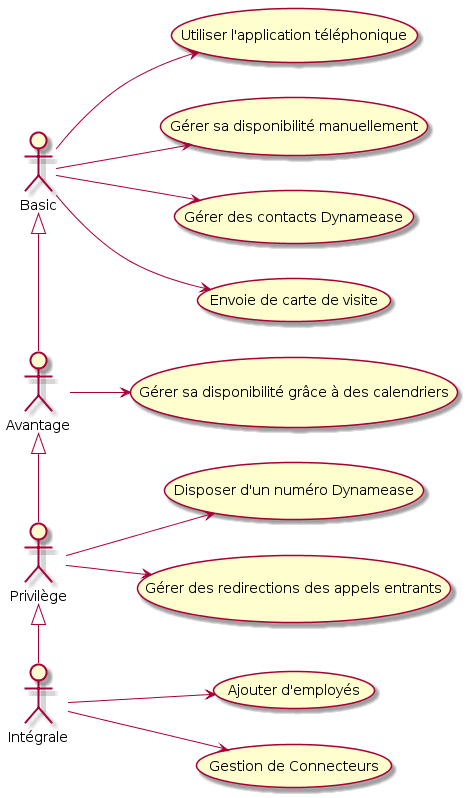
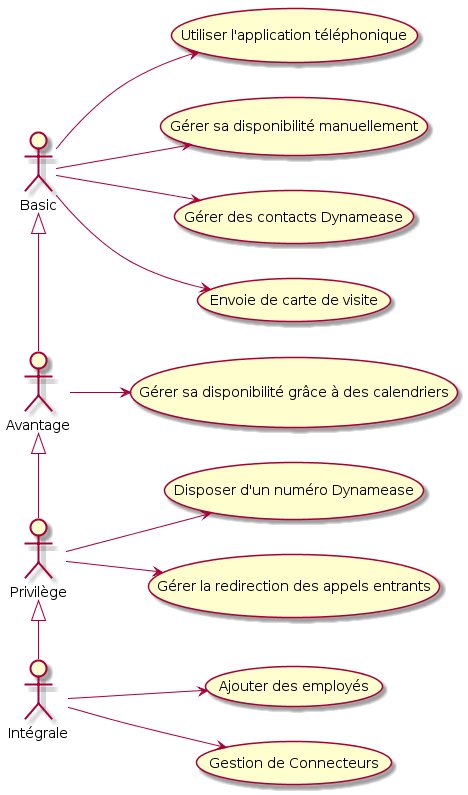
fix

diff --git a/src/Securite.tex b/src/Securite.tex
@@ -1,16 +1,16 @@
 Pour cette partie, je n'avais pas de cahier des charges à proprement parler. J'étais beaucoup plus libre dans mes choix. Il fallait que je m'organise dans le but de faire des tests sur la sécurité des communications de Dynamease. 
 
-Le résultat à obtenir était la liste des éventuelles failles de sécurité et de proposer des moyens pour les résoudre. Dans le but de déceler ces éventuelles failles j'ai suivi les étapes suivantes :
+Le résultat à obtenir était la liste des éventuelles failles de sécurité et une liste de propositions pour leur résolution. Dans le but de déceler ces éventuelles failles j'ai suivi les étapes suivantes :
 
 \begin{enumerate}
 	\item Lecture du code source de l'application;
 	\item Lister les éventuelles failles critiques qui pourraient être présentes;
-	\item Effectuer les manipulations afin de tester les failles;
+	\item Effectuer les manipulations afin de mettre en avant ces failles;
 	\item Détecter les sources de ces failles;
 	\item Déterminer les solutions à ces problèmes.
 \end{enumerate} 
 
-En plus de trouver et résoudre ces différentes failles, je me dois également de mettre en place le protocole Https pour les sites internet de Dynamease. Cette mise en place devra être effectuée par un jeune décrocheur, je serais en charge de jouer le rôle de tuteur, en lui indiquant ce qu'il doit faire, tout en lui apprenant les différentes méthodes pour atteindre au mieux l'objectif.
+En plus de trouver et résoudre ces différentes failles, je me dois également de mettre en place le protocole Https pour les sites internet de Dynamease. Cette mise en place sera effectuée par un jeune décrocheur. Je serais en charge de jouer le rôle de tuteur, en lui indiquant ce qu'il doit faire, tout en lui apprenant les différentes méthodes pour atteindre au mieux l'objectif.
 
 \section{Vérification de sécurité des services Dynamease}
 
@@ -20,17 +20,17 @@ Dans cette partie j'expliquerais, pour toutes les failles de sécurité que j'ai
 
 En utilisant l'outil SoapUI, j'ai pu remarquer que les arguments des requêtes n'étaient pas tous cryptés. De plus ceux qui étaient cryptés, ressemblaient étrangement aux clefs d'activation fournies par Dynamease.
 
-En effet les clefs d'activation étaient cryptés avec le même procédé de cryptage que celui utilisé par les arguments des requêtes. De plus la même clef de cryptage est utilisée pour les deux cryptages. Ceci peut poser quelques problèmes.
+En effet les clefs d'activation étaient cryptés avec le même procédé de cryptage que celui utilisé par les arguments des requêtes. De plus la même clef de cryptage est utilisée pour ces deux cryptages. Ceci peut poser quelques problèmes.
 
-En effet, des outils tels que Wireshark permettent de récupérer les paquets, par lesquels transitent les requêtes, envoyées par l'application téléphonique afin d'obtenir les méthodes et les arguments utilisés par chacune.
+En effet, des outils tels que Wireshark permettent de récupérer les paquets, par lesquels transitent les requêtes, envoyées par l'application téléphonique afin d'obtenir les méthodes et leurs arguments ainsi que leur contenu.
 
 En remplaçant les arguments nécessitant une chaîne cryptée par une clef d'activation quelconque, on se rend compte que pour certaines requêtes les résultats renvoyés sont corrects. Aucune vérification n'est donc effectuée sur les arguments reçus.\\
 
-Pour régler ces problèmes il faut commencer par mettre en place un protocole https. Pour que les requêtes envoyées ne puissent plus être lues par une personne observant les paquets transitant au travers du réseau. De plus le cryptage des données devrait être différent que celui utilisé par l'encodage des clefs d'activation, ou du moins la phrase permettant ce cryptage.
+Pour régler ces problèmes il faut commencer par mettre en place un protocole https. Pour que les requêtes envoyées ne puissent plus être lues par une personne observant les paquets transitant au travers du réseau. De plus le cryptage des données devrait être différent que celui utilisé par l'encodage des clefs d'activation, ou du moins la phrase permettant ce cryptage devrait être différente.
 
 Une vérification devra également être mise en place sur les arguments envoyés.
 
-De plus une nouvelle vérification devrait être mise en place afin de pouvoir vérifier l'identité de l'utilisateur Dynamease envoyant cette requête. Cette vérification pourrait être mise en place à l'aide d'un identifiant encodé unique pour chaque utilisateur. Une vérification devra être mise en place en début de chaque requête pour une meilleure sécurité des requêtes.
+De plus une nouvelle vérification pourrait être mise en place afin de vérifier l'identité de l'utilisateur Dynamease. Cette vérification pourrait être mise en place à l'aide d'un identifiant encodé, unique pour chaque utilisateur. Une vérification devra être mise en place en début de chaque requête, pour une meilleure sécurité.
 
 \subsection{Cookies non sécurisés}
 
@@ -40,16 +40,16 @@ La question qui se posait alors, était quelle est la chose qui déterminait qu'
 
 Après une observation des cookies, il est apparu que les informations contenues dans les cookies étaient écrites en claires. L'information qui nous intéresse est l'identifiant Dynamease. Cet identifiant étant unique c'est grâce à celui-ci que l'utilisateur peut être identifié.
 
-Cette information étant en claire il suffit donc de la modifier avec un autre identifiant afin d'usurper le compte d'un autre utilisateur.
-\\\\
+Cette information étant en claire il suffit donc de la modifier avec un autre identifiant, afin d'usurper le compte d'un autre utilisateur.
+\\
 
-Afin de régler cette faille il suffit d'encoder les informations contenues dans les cookies. De plus d'autres informations devraient être contenues dans les cookies afin d'être certain que l'Id utilisé représente bien l'utilisateur actuel.
+Afin de régler cette faille il suffit d'encoder les informations contenues dans les cookies. De plus d'autres informations devraient être contenues dans les cookies afin d'être certain que l'identifiant utilisé représente bien l'utilisateur actuel. On pourrait reprendre le même procédé que présenté dans la partie précédente.
 
 \subsection{Sauvegarde des données}
 
 Les données sont actuellement stockées sur une seule base de données. En cas de panne du serveur accueillant la base de données, les services Dynamease seraient hors fonction. De plus il n'est pas à exclure que les données stockées sur le serveur puissent être définitivement perdues.
 
-Pour une plus grande sécurité sur la sauvegarde des données, il faudrait mettre en place une procédure pour que les données soient stockées sur deux bases de données se trouvant sur deux serveurs différents. Le plus judicieux serait d'avoir deux bases de données en \textit{master} afin que la copie se fasse en simultanée sur les deux bases de données, et d'avoir une base de données \textit{slave} qui copierait les données des bases de données master à intervalles de temps réguliers, afin d'y effectuer des tests, récupération manuelle de données etc.
+Pour une plus grande sécurité sur la sauvegarde des données, il faudrait mettre en place une procédure pour que les données soient stockées sur deux bases de données se trouvant sur deux serveurs différents. Le plus judicieux serait d'avoir deux bases de données en \textit{master} afin que la copie se fasse en simultanée sur les deux bases de données, et d'avoir une base de données \textit{slave} qui copierait les données des bases de données \textit{master} à intervalles de temps réguliers, afin d'y effectuer des tests, récupération manuelle de données etc.
 
 \subsection{Conclusion}
 
@@ -59,7 +59,7 @@ Pour l'instant mon travail s'est concentré sur le fait de lister les différent
 
 Les communications vers le site web de Dynamease s'effectuaient par le biais du protocole HTTP. Ce protocole n'est pas sécurisé et ne protège pas les données des clients Dynamease. Il a été décidé de mettre en place le protocole HTTPS, qui chiffre les communications avec les clients.
 
-Le protocole HTTPS, fonctionne sur le principe de clef publique clef privée. Une clef publique est envoyée à chacun des clients pour chiffrer les données que celui-ci envoi. Ces données ne peuvent être alors décryptées uniquement par la clef privée qui reste sur le serveur.
+Le protocole HTTPS, fonctionne sur le principe de clef publique, clef privée. Une clef publique est envoyée à chacun des clients pour chiffrer les données envoyées. Ces données ne peuvent être alors décryptées que par la clef privée qui reste sur le serveur.
 
 Cette mise en place sera réalisée par un jeune décrocheur que je devrais superviser. J'aurais pour charge de lui indiquer ce qu'il doit faire, et le mettre sur la voie pour qu'il devienne autonome dans son travail.
 
@@ -83,7 +83,7 @@ Pour réaliser cette mise en place j'ai décidé de faire passer ce jeune décro
 	\item Mise en place d'une clef certifiée Gandi.
 \end{enumerate}
 
-Pour la première étape, je lui fournirais toutes les documentations officielles nécessaires à la réalisation de cette première étape. Et au fur et à mesure de la formation je diminuerais le nombre de documentations fournies pour l'obliger à aller rechercher l'information utile.
+Pour la première étape, je lui fournirais toutes les documentations officielles nécessaires à la réalisation de celle-ci. Et au fur et à mesure de la formation je diminuerais le nombre de documentations fournies pour l'obliger à aller rechercher l'information utile.
 
 Les tests qui seront effectués par le décrocheur se dérouleront sur un serveur à part afin de pouvoir assurer un fonctionnement normal du reste des infrastructures en cas d'erreur.\\\\
 

diff --git a/src/Entreprise.tex b/src/Entreprise.tex
@@ -17,13 +17,11 @@ Employé de Dynamease en charge de l’architecture du service Dynamease et du s
 
 \subsection{Les objectifs}
 
-Dynamease se base sur le fait que le portable est un appareil téléphonique qui devient plus utilisé que les téléphones fixes. Le portable devient, grâce à Dynamease, un standard automatisé. Tous les appels entrant sont filtrés en amont afin de déterminer leur importance et leur provenance. Il est possible pour un utilisateur Dynamease de configurer les services Dynamease afin de déterminer des horaires d'appel pour différents types de contact (Professionnel, Familial, ami).
+Dynamease se base sur le fait que le portable est un appareil téléphonique qui devient plus utilisé que les téléphones fixes. Le portable devient, grâce à Dynamease, un standard automatisé. Tous les appels entrant sont filtrés en amont afin de déterminer leur importance et leur provenance. Il est possible pour un utilisateur Dynamease de configurer les services Dynamease afin de déterminer des horaires d'appel pour différents types de contact (Professionnel, Familial, ami). Une fois les appels filtrés, ils sont redirigés vers l'appareil téléphonique de l'utilisateur.
 
-Une fois les appels filtrés et qu'ils peuvent être acceptés par l'utilisateur, ils sont redirigés vers l'appareil téléphonique de l'utilisateur.
+Lors du filtrage, des informations sont récupérées sur les appels entrants. Ces informations sont récupérées sur les bases de données privées du client ainsi que sur des bases de données publiques (Annuaire inverse, réseaux sociaux ...). Les appels redirigés sont alors accompagnés par ces informations. Les informations pertinentes, sur l'appel, sont affichées sur l'appareil téléphonique de l'utilisateur.\\
 
-Lors de ce filtrage des informations sont récupérées sur les appels. Ces informations sont récupérées sur les bases de données privées du client ainsi que sur des bases de données publiques (Annuaire inverse, réseaux sociaux ...). Les appels redirigés sont alors accompagnés par les informations. Les informations pertinentes, sur l'appel, seront affichées sur l'appareil téléphonique de l'utilisateur.\\
-
-Ce service permet aux utilisateurs de déléguer la partie standardisation de son entreprise et d'éviter de rater des appels importants tout en ignorant les appels considérés comme nuisibles. De plus Dynamease propose aux entreprises de diminuer leurs coûts de téléphonie en remplaçant les appareils fixes de l'entreprise par les téléphones portables de leurs employés. Les employés pourront ainsi avoir un seul appareil téléphonique pour leur appel, et configurer leurs horaires d'appel en fonction de leurs horaires de travail.\\
+Ce service permet aux utilisateurs de déléguer la partie standardisation de leur entreprise et d'éviter de rater des appels importants tout en ignorant les appels pouvant être considérés comme nuisibles. De plus Dynamease propose aux entreprises de diminuer leurs coûts de téléphonie en remplaçant les appareils fixes de l'entreprise par les téléphones portables de leurs employés. Les employés pourront ainsi avoir un seul appareil téléphonique pour leurs appels, et configurer leurs horaires d'appel professionnel en fonction de leurs horaires de travail.\\
 
 L'entreprise Dynamease est également soucieuse des adolescents sortis du système scolaire. Dynamease veut proposer une aide à ses "décrocheurs" en les formant sur le métier de l'informatique, en leur faisant réaliser, sur une période courte, des petits projets. L'initiative, "de décrocheur à développeur" verra le jour durant mon stage.
 
@@ -32,18 +30,19 @@ L'entreprise Dynamease est également soucieuse des adolescents sortis du systè
 Dynamease propose à ses clients plusieurs offres. Chaque offre contient des fonctionnalités particulières ainsi que les fonctionnalités des offres précédentes dans la hiérarchie.  La hiérarchie des offres ainsi que les fonctionnalités attribuées à chacune de ces offres est indiquée dans le diagramme suivant:
 
 \begin{figure}[!h]
+	\centering
 	\includegraphics[scale=0.5]{img/useCase.png}
-	\caption{\label{useCase} Diagramme de cas d'utilisation Dynamease}
+	\caption{\label{useCase} Diagramme des cas d'utilisation Dynamease}
 \end{figure}
 
-Nous allons maintenant décrire les différentes offres.
+Nous allons maintenant décrire ces différentes offres.
 
 \subsubsection{Basic}
 
 L'offre \textit{Basic} est une offre gratuite, permettant à l'utilisateur d'accéder aux fonctions basiques de l'application téléphonique et de l'application web:
 
 \begin{itemize}
-	\item Envoi de carte de visite Dynamease;
+	\item Envoi de cartes de visite Dynamease;
 	\item Gestion de la liste de contact;
 	\item Gestion manuelle de la disponibilité.
 \end{itemize}
@@ -60,7 +59,7 @@ L'offre Privilège permet aux utilisateurs d'acquérir un numéro Dynamease. Ce 
 
 L'offre Intégrale est destinée aux entreprises. Cette offre permet l'ajout d'employés qui auront les mêmes fonctionnalités qu'un client  Avantage.
 
-Il est également possible d'ajouter des connecteurs. Les connecteurs permettent une meilleure identification d'appel ainsi qu'une meilleure redirection. Les connecteurs sont des bases de données fournies par les entreprises qui permettent des appelants ainsi que la redirection vers l'employé responsable de l'appelant. Les connecteurs sont utilisés pour fournir des informations sur l'appelant et également pour leur redirection.
+Il est également possible d'ajouter des connecteurs. Les connecteurs permettent une meilleure identification d'appel ainsi qu'une meilleure redirection. Les connecteurs sont des bases de données fournies par les entreprises qui permettent d'identifier un appelant ainsi que la redirection vers l'employé responsable de celui-ci. Les connecteurs sont utilisés pour fournir des informations sur l'appelant et également pour leur redirection.
 
 \section{Présentation de l'environnement Dynamease}
 
@@ -82,15 +81,15 @@ Les services Dynamease sont accessibles via les interfaces de requêtes représe
 
 Passons maintenant à la partie Contrôleur. Cette partie peut être divisée en deux composants.
 
-Le premier de ces composants est le RequestHandler, qui s'occupe du traitement des appels. RequestHandler dispose de trois parties. La première partie est le \textit{Retriever}, qui représente la recherche du contact lors d'un appel. Le \textit{Cathegorizer} réunie toutes les classes aidant à la classification de l'appelant. Et enfin le \textit{matcher}, construit les informations relatives à l'appelant afin de les fournir à la personne recevant l'appel.
+Le premier de ces composants est le RequestHandler, qui s'occupe du traitement des appels. RequestHandler dispose de trois parties. La première partie est le \textit{Retriever}, qui représente la recherche du contact lors d'un appel. Le \textit{Categorizer} réunie toutes les classes aidant à la classification de l'appelant. Et enfin le \textit{Matcher}, a pour rôle de mettre en relation l'appelant avec la meilleure personne à contacter, par le biais du meilleur appareil téléphonique à utiliser pour cette personne.
 
-La seconde partie Contrôleur, réunis toutes les méthodes relatives aux clients, création, suppression, modification et lecture des informations. Les deux classes utilisées dans cette partie sont le CorpSubOp pour les entreprises, donc du type Intégral. Les autres clients sont gérés par la classe DynSubOp..\\
+La seconde partie du Contrôleur réunit toutes les méthodes relatives aux clients, création, suppression, modification et lecture des informations. Les deux classes utilisées dans cette partie sont le CorpSubOperations pour les entreprises, donc du type Intégral. Les autres clients sont gérés par la classe DynSubOperations\\
 
 La partie Modèle de Dynamease est représentée par les parties Core et Kernel. Core représente les classes métier utilisées uniquement par le serveur Dynamease. Quant à la partie Kernel elle réunit toutes les classes pouvant être utilisées par chacune des applications de Dynamease.\\
 
-Le stockage est géré par deux bases de données MySQLet Ldap. La base de données Ldap est utilisée pour stocker les informations sur les contacts des utilisateurs. La base MySQL stocke toutes les autres informations utiles.
+Le stockage est géré par deux bases de données MySQL et Ldap. La base de données Ldap est utilisée pour stocker les informations sur les contacts des utilisateurs. La base MySQL stocke toutes les autres informations utiles.
 
-La raison de la présence de deux bases de données est dû au fait de répondre à un besoin des futurs clients ayant déjà un annuaire Ldap, afin de faciliter l'importation de ces contacts.\\
+La raison de la présence de deux bases de données est dû au fait de répondre à un besoin des futurs clients ayant déjà un annuaire Ldap, afin de faciliter l'importation de leurs contacts.\\
 
 En plus du serveur Dynamease, l'entreprise dispose aussi d'un serveur Asterisk. C'est un serveur gérant les communications téléphoniques. Ce serveur communique avec le serveur Dynamease afin de gérer les redirections et avoir les numéros entrant.\\
 

diff --git a/src/Apprentissage.tex b/src/Apprentissage.tex
@@ -1,6 +1,6 @@
 \section{Introduction}
 
-La réalisation des applications téléphoniques nécessite différentes technologies et d'outils. Les applications Iphone et Android nécessitant des outils différents, une partie non négligeable de mon travail a été de me former sur ceux-ci.
+La réalisation des applications téléphoniques nécessite différentes technologies et outils. Les applications Iphone et Android nécessitant des outils différents, une partie non négligeable de mon travail a été de me former sur ceux-ci.
 
 Malgré la différence de ces deux systèmes d'exploitation, il existe quelques ressemblances, en particulier sur leur utilisation du pattern MVC (Model View Controler). Le modèle s’occupe de stocker les données, la vue les affiche à l’utilisateur, en créant les différents éléments de navigation et d'interaction. Enfin le contrôleur réalise le lien entre la vue et le modèle. Il récupère les informations de la vue, pour les stocker dans le modèle. Le modèle notifie le contrôleur pour que celui-ci mette à jour la vue.
 
@@ -14,11 +14,11 @@ Pour réaliser des applications Android nous devons utiliser différents outils,
 
 \subsubsection{Eclipse}
 
-Eclipse est un IDE (Integrated Development Environment) permettant principalement le développement Java. Android étant réalisé en Java il est possible d'intégrer des plugins permettant le développement d'applications Android avec cet IDE. De plus il est nécessaire de détenir le SDK d'Android. Un SDK est un kit de développement pour la réalisation d'application du type défini.
+Eclipse est un IDE (Integrated Development Environment) permettant principalement le développement Java. Android étant réalisé en Java il est possible d'intégrer des plugins permettant le développement d'applications Android avec cet IDE. Il est nécessaire de détenir le SDK d'Android pour effectuer ce développement. Un SDK est un kit de développement pour la réalisation d'application du type défini.
 
 \subsubsection{Le Playstore}
 
-Le Playstore est la plateforme officielle de Google qui permet de mettre à disposition des utilisateurs des applications téléphonique. Cette mise en production est relativement rapide, de l'ordre de quelques heures.
+Le Playstore est la plateforme officielle de Google qui permet de mettre à disposition des utilisateurs des applications téléphoniques. Cette mise en production est relativement rapide, de l'ordre de quelques heures.
 
 \subsection{Le langage de programmation}
 
@@ -58,7 +58,7 @@ Xcode est l’IDE permettant de développer les applications Apple (applications
 \subsubsection{Itunes Connect}
 ITunes Connect est un site internet permettant de gérer les applications réalisées auprès d’Apple. Pour une entreprise, une fois enregistrée au programme de développement Apple, ce site permet de définir les membres de l’équipe de développement et leurs rôles au sein de l’équipe. Je possédais les permissions techniques qui permettent de développer des applications et de les publier sur l’Appstore. 
 
-L'Appstore est la plateforme de téléchargement d'applications en ligne d'Apple. ITunes Connect permet aussi de définir l’ensemble des métadonnées qui seront présentées aux utilisateurs lors de leur achat de l’application sur l’AppStore (mots-clés, descriptif, captures d’écrans, prix ..).
+L'Appstore est la plateforme de téléchargement d'applications en ligne d'Apple. ITunes Connect permet également de définir l’ensemble des métadonnées qui seront présentées aux utilisateurs lors de leur achat de l’application sur l’AppStore (mots-clés, descriptif, captures d’écrans, prix ..). C'est ce site qui permet de mettre en production des applications. Cette mise en production est plus longue, de l'ordre de 5 jours. Cette attente est dû au fait que des vérifications sont effectuées sur l'application par des membres de l'entreprise Apple.
 
 Ce site permet également d'avoir un retour sur les utilisateurs de l'application (commentaires, nombre de téléchargements, note obtenue sur l'application ...)
 
@@ -69,7 +69,7 @@ Ce site permet également d'avoir un retour sur les utilisateurs de l'applicatio
 
 La délégation permet, comme son nom l'indique, de déléguer des méthodes vers un autre objet. Elle se fait par l'envoi d'un message qui informe le délégué. Le message est ensuite traité par le délégué. Le délégué pourra répondre à ce message en renvoyant un résultat ou en mettant à jour une vue. Le système de délégation a été utilisé afin de faire transiter des informations entre les différentes vues de l'application développée. La délégation s'effectue par la définition d'un protocole décrivant les messages envoyés entre les objets.
 
-Pour définir une délégation, un objet doit hériter d'un objet \textit{delegate}. Cet héritage pourra nécessiter une redéfinition des méthodes voulues par le développeur. Si certaines méthodes ne sont pas redéfinies, alors une méthode par défaut définie dans l'objet \textit{delegate} sera appelée. On peut comparer ce procédé à une interface Java à la différence que toutes les méthodes n'ont pas à être définies.
+Pour définir une délégation, un objet doit implémenter un objet \textit{delegate}. Cet implémentation pourra nécessiter une redéfinition des méthodes voulues par le développeur. Si certaines méthodes ne sont pas redéfinies, alors une méthode par défaut définie dans l'objet \textit{delegate} sera appelée. On peut comparer ce procédé à une interface Java à la différence que toutes les méthodes n'ont pas à être définies.
 
 \subsubsection{Block}
 

diff --git a/src/Conclusion.tex b/src/Conclusion.tex
@@ -2,9 +2,9 @@ Ayant déjà effectué mon stage technicien au sein de Dynamease, je n'ai eu auc
 
 Le fait de développer une application sur deux systèmes d'exploitation différents fut très intéressant. Avoir deux points de vu différents d'une même réalisation, m'a obligé à mettre plus d'importance sur la conception et sur la recherche de technologies sur les deux systèmes. De plus le développement sur IOS est limité par Apple, pour des raisons de qualité des applications. Cette limite m'a obligé à être le plus inventif possible pour pouvoir la contourner et pouvoir réaliser une application plus ou moins identique à l'application Android. De plus la mise en production décalée entre les deux applications, du fait des vérifications effectuées par Apple, m'a également permis d'améliorer la gestion de mon temps de travail sur les deux applications, afin de pouvoir soumettre les deux applications aux utilisateurs en même temps.
 
-Les différentes fonctionnalités à réaliser sont actuellement proposées aux clients Dynamease. Bien qu'en ce qui concerne la fonctionnalité du Click2Call, elle ne soit qu'en de prototypage, l'objectif est rempli car il consistait à prouver qu'il était possible de fournir un tel procédé aux clients Dynamease. D'autres fonctionnalités ont été réalisé en parallèle de celles présentée, comme l'ajout de la numérotation Dynamease.\\
+Les différentes fonctionnalités à réaliser sont actuellement proposées aux clients Dynamease. Bien qu'en ce qui concerne la fonctionnalité du Click2Call, elle ne soit encore qu'au stade de prototype. L'objectif est rempli car il consistait à prouver qu'il était possible de fournir une telle fonctionnalité aux clients Dynamease. D'autres fonctionnalités ont été réalisé en parallèle de celles présentée, comme l'ajout de la numérotation Dynamease.\\
 
-Le développement d'un outil permettant l'installation de l'environnement complet de Dynamease fut très intéressant de part du fait qu'il a fallu me former sur les différents services utilisés par Dynamease. Cet apprentissage m'a permis de comprendre toutes les technologies utilisées ainsi que leur utilité. D'une autre part le fait de réaliser des scripts intelligents permettant de réaliser une suite de commandes m'a toujours intéressé dans le sens où il faut réfléchir aux différents cas d'utilisation du script. Cet outil est complet et ne nécessite pas forcément d'améliorations, car il est actuellement utilisé par tous les employées de Dynamease ainsi que les consultants. Cependant un manuel d'utilisation pourrait être créé afin de faciliter encore plus l'utilisation de l'outil.\\
+Le développement d'un outil permettant l'installation de l'environnement complet de Dynamease fut très intéressant de part du fait qu'il a fallu me former sur les différents éléments utilisés par Dynamease. Cet apprentissage m'a permis de comprendre toutes les technologies utilisées ainsi que leur utilité. D'une autre part le fait de réaliser des scripts intelligents permettant de réaliser une suite de commandes m'a toujours intéressé dans le sens où il faut réfléchir aux différents cas d'utilisation du script. Cet outil est complet et ne nécessite pas forcément d'améliorations, car il est actuellement utilisé par tous les employées de Dynamease ainsi que les consultants. Cependant un manuel d'utilisation pourrait être créé afin de faciliter encore plus l'utilisation de l'outil.\\
 
 L'amélioration de la sécurité Dynamease m'a fait comprendre les enjeux de la cryptologie au sein d'une entreprise. La recherche de failles est un procédé très intéressant dans le sens où il faut observer toutes les parties de l'application en se forçant à avoir un œil extérieur et critique. C'est d’ailleurs durant la recherche de ces failles que j'ai pu remarquer quelques anomalies dans ce qui était réalisé, et sur les côtés non ergonomiques de certaines parties de l'application. De plus devoir apporter une solution et mesurer l'état critique de la faille, permet de se rendre compte des erreurs à éviter dans le développement d'une application. Me rendre compte de certaines erreurs sur ce service m'a permis de critiquer la fiabilité de chacune des fonctionnalités que je crée. Durant le reste de mon stage je devrais mettre en place les procédures pour régler ces différentes failles.\\
 

diff --git a/src/Stage.tex b/src/Stage.tex
@@ -1,14 +1,14 @@
 \section{Mes Objectifs}
 
- Dans le but de pouvoir proposer une version 3.0 du service Dynamease aux clients, de nouvelles fonctionnalités doivent être réalisées. Mon stage se concentrera sur les applications téléphoniques de Dynamease. Je serais en charge des différentes méthodes de communication de Dynamease, en particulier, celles faisant intervenir, le serveur Dynamease avec les applications téléphoniques.
+ Dans le but de pouvoir proposer une version 3.0 du service Dynamease, de nouvelles fonctionnalités doivent être réalisées. Mon stage se concentrera sur les applications téléphoniques de Dynamease. Je serais en charge des différentes méthodes de communication de Dynamease, en particulier, celles faisant intervenir, le serveur Dynamease avec les applications téléphoniques.
 
 On peut séparer mon travail chez Dynamease en trois parties :
 
 \subsection{Amélioration de l'existant}
 
-L'amélioration des fonctions ayant des dysfonctionnements ou de mauvaises performances (temps de réponse trop longue par exemple) aura une place importante dans mon stage. Je devrais donc résoudre ces différents problèmes, en relation directe avec les applications téléphoniques.
+L'amélioration des fonctions, ayant des dysfonctionnements ou de mauvaises performances (temps de réponse trop longue par exemple) aura une place importante dans mon stage. Je devrais donc résoudre ces différents problèmes, en relation directe avec les applications téléphoniques.
 
-L'installation des services Dynamease, est une opération longue et complexe. J'aurais pour rôle de changer cette installation afin de la rendre plus simple, automatisé et rapide. Cette facilité de prise en main servira aux nouveaux arrivants Dynamease afin qu'ils puissent avoir un environnement Dynamease sur leur machine locale. Il devra également pouvoir être installé ces services rapidement sur un nouveau serveur sans avoir à effectuer de configurations préalable manuellement.
+L'installation des services Dynamease, est une opération longue et complexe. J'aurais pour rôle de changer cette installation afin de la rendre plus simple, automatisé et rapide. Cette facilité de prise en main servira aux nouveaux arrivants Dynamease afin qu'ils puissent avoir un environnement Dynamease sur leur machine locale. L'environnement devra également pouvoir être installé rapidement sur un nouveau serveur sans avoir à effectuer de configurations majeure manuellement.
 
 Je m’intéresserais également aux différents outils utilisés par Dynamease dans le cadre de la mesure de performance. Après cette étude je pourrais proposer des pistes d'amélioration en proposant des outils d'aide à cette gestion, qui ne seraient pas encore utilisés et qui pourraient faciliter le développement des applications Dynamease.
 
@@ -35,6 +35,6 @@ Les projets que je devrais encadrer sont liés à mes sujets de stage, en partic
 
 Pour la réalisation de ces objectifs je dois réaliser en priorité tout ce qui est attrait aux applications téléphoniques, l'amélioration et l'ajout de fonctionnalités.
 
-Pour cela je mettrais en place, pour toutes mes réalisations, une documentation complète des différentes méthodes. Des tests unitaires seront mis en place pour chacune de mes méthodes afin de prouver leur fonctionnement. Des tests d'intégration seront également mis en place pour tester l'ensemble de mon projet sur des procédures réelles d'utilisation. Si tous les tests prouvent le bon fonctionnement de mes applications je devrais réaliser leur mise en production.\\
+Pour cela je mettrais en place, pour toutes mes réalisations, une documentation complète des différentes méthodes. Des tests unitaires seront mis en place pour chacune de mes méthodes afin de prouver leur fonctionnement. Des tests d'intégration seront également mis en place pour tester l'ensemble de mon projet sur des cas d'utilisation réel. Si tous les tests prouvent le bon fonctionnement de mes applications je devrais réaliser leur mise en production.\\
 
 En second lieu je dois m'occuper de la mise en place des outils de performances des services de Dynamease. Et enfin de vérification de la sécurité des services Dynamease.

diff --git a/src/Remerciement.tex b/src/Remerciement.tex
@@ -4,6 +4,6 @@
 
 Je souhaite exprimer toute ma reconnaissance à Yves \bsc{Nicolas}, créateur de Dynamease, pour m’avoir accueilli dans son entreprise, pour le temps qu’il m’a accordé, de son accompagnement tout au long de ce stage et également pour m'avoir donné son retour d'expérience en tant que chef de projet, créateur d'entreprises et développeur.
 
-Par ailleurs, je remercie également mon collègue Etienne \bsc{Laplane} avec qui j’ai travaillé et mené à bien le développement de certaines fonctionnalités des applications téléphoniques qui seront décrites tout au long de ce rapport.\\
+Par ailleurs, je remercie également mon collègue Etienne \bsc{Laplane} avec qui j’ai travaillé et mené à bien le développement de certaines fonctionnalités, des applications téléphoniques, réalisées durant ce stage.\\
 
 Je remercie également Grégoire \bsc{Ternon}, consultant de Dynamease, pour m'avoir fait découvrir de nouvelles technologies et également pour son retour d'expérience en tant que jeune entrepreneur. 

diff --git a/Rapport_Stage_Ingenieur_Moreau_Kevin_2015.tex b/Rapport_Stage_Ingenieur_Moreau_Kevin_2015.tex
@@ -13,8 +13,8 @@
 \titreDetaille{Performance et sécurité des applications Téléphoniques}
 \sousTitreGeneral{Moreau Kévin\\Janvier - Juillet 2015}
 \auteurs{Moreau Kévin}
-\destinataires{Malandain Nicolas, Gasso Gilles, Nicolas Yves}
-\resume{Le présent document résume le stage effectué au sein de l'entreprise Dynamease par Moreau Kévin}
+\destinataires{\bsc{Malandain Nicolas, Gasso Gilles, Nicolas Yves}}
+\resume{Le présent document résume le stage effectué au sein de l'entreprise Dynamease par \bsc{Moreau Kévin}}
 \motsCles{Stage Ingénieur, ASI, Dynamease, Amélioration, Performance, Sécurité, Ios, Android, Aerogear, Docker}
 
 %\SetWatermarkText{Brouillon}
@@ -40,7 +40,7 @@
  \chapter{Présentation de mon stage}
 	\input{src/Stage.tex}
  
- \chapter{Apprentissage des technologies utilisées dans la réalisation des applications téléphonique}
+ \chapter{Apprentissage des technologies utilisées dans la réalisation des applications téléphoniques}
  	\input{src/Apprentissage.tex}
 
  \chapter{Performance}
